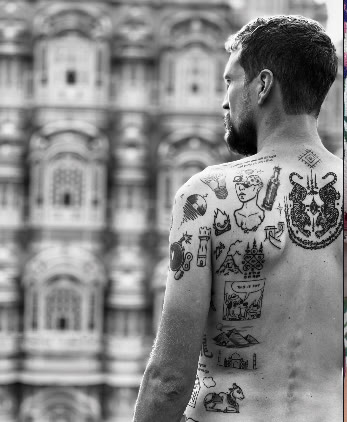
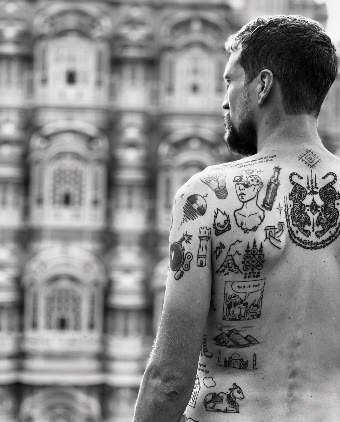
Feature the three Hawa Mahal tattoos in the favourites row
Lotus on the nape, Travel flash back piece and World on the spine; trims a dark edge from the travel flash photo.

Claude-Session: https://claude.ai/code/session_01TYBGgoX8NFLNTeoFxmURPB

diff --git a/index.html b/index.html
@@ -116,21 +116,21 @@
     <div class="cards3">
       <article class="card reveal">
         <a class="card__img" href="#" data-wa="hawamahal"><img src="assets/tattoos/tattoo-11.jpg" alt="Lotus tattoo on the nape, photographed facing Hawa Mahal" loading="lazy"><span class="card__go" aria-hidden="true"><svg width="14" height="14"><use href="#i-arrow"/></svg></span></a>
-        <p class="kicker">Shot facing Hawa Mahal</p>
+        <p class="kicker">Fine-line · Shot facing Hawa Mahal</p>
         <h3>Lotus on the nape</h3>
-        <p>Fine-line lotus, finished and photographed right across from the Palace of Winds.</p>
+        <p>A delicate fine-line lotus, finished and photographed right across from the Palace of Winds.</p>
       </article>
       <article class="card reveal">
-        <a class="card__img" href="#" data-wa="tattoo"><img src="assets/tattoos/tattoo-7.jpg" alt="Trishul, serpent and Om tattoo on the arm" loading="lazy"><span class="card__go" aria-hidden="true"><svg width="14" height="14"><use href="#i-arrow"/></svg></span></a>
-        <p class="kicker">Sanskrit &amp; spiritual</p>
-        <h3>Trishul, serpent &amp; Om</h3>
-        <p>Blackwork with a touch of red, drawn around a yantra. One of our most-asked styles.</p>
+        <a class="card__img" href="#" data-wa="tattoo"><img src="assets/tattoos/tattoo-20.jpg" alt="Travel flash tattoos across the back, photographed in front of Hawa Mahal" loading="lazy" style="object-position:center 30%"><span class="card__go" aria-hidden="true"><svg width="14" height="14"><use href="#i-arrow"/></svg></span></a>
+        <p class="kicker">Blackwork · Shot facing Hawa Mahal</p>
+        <h3>Travel flash back piece</h3>
+        <p>A whole back of small travel flash pieces, with Hawa Mahal standing right behind.</p>
       </article>
       <article class="card reveal">
-        <a class="card__img" href="#" data-wa="tattoo"><img src="assets/tattoos/tattoo-2.jpg" alt="Colour phoenix tattoo on the hand" loading="lazy"><span class="card__go" aria-hidden="true"><svg width="14" height="14"><use href="#i-arrow"/></svg></span></a>
-        <p class="kicker">Colour work</p>
-        <h3>Rising phoenix</h3>
-        <p>Fire-orange feathers flowing down the hand. Bold colour that heals bright.</p>
+        <a class="card__img" href="#" data-wa="tattoo"><img src="assets/tattoos/tattoo-18.jpg" alt="World map tattoo on the spine, photographed in front of Hawa Mahal" loading="lazy" style="object-position:center 60%"><span class="card__go" aria-hidden="true"><svg width="14" height="14"><use href="#i-arrow"/></svg></span></a>
+        <p class="kicker">Fine-line · Shot facing Hawa Mahal</p>
+        <h3>World on the spine</h3>
+        <p>A tiny globe on the spine for a traveller, inked a few steps from the palace.</p>
       </article>
     </div>
     <p class="fineprint reveal">A few favourites from The Tattoo Cafe studio. Tap any piece to ask for something similar on WhatsApp.</p>
